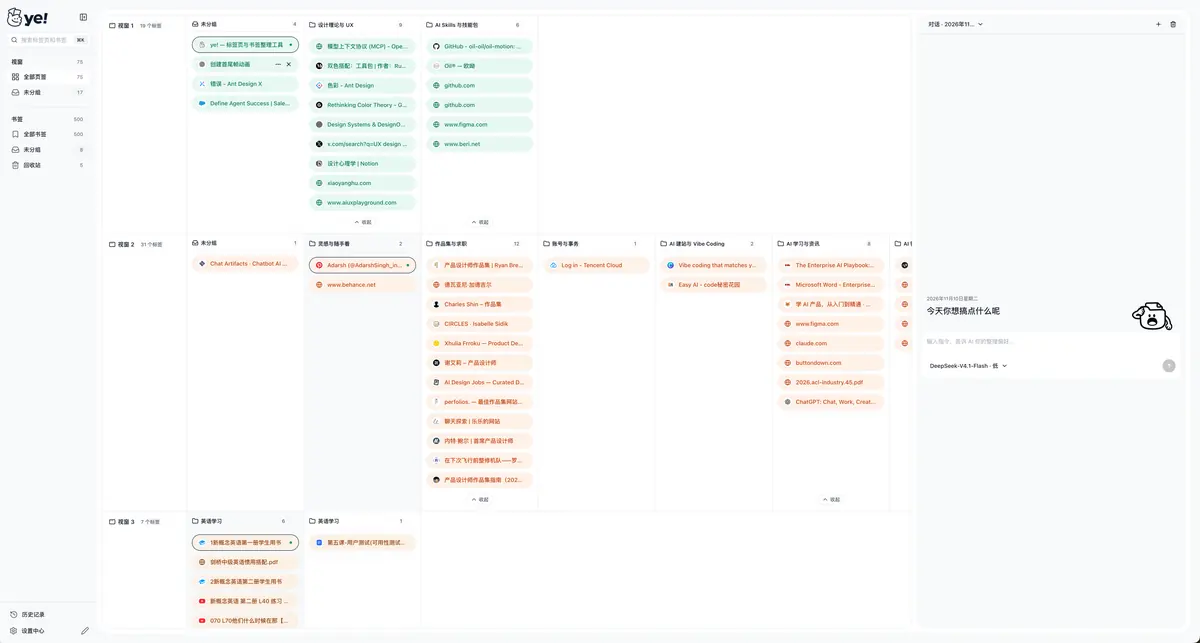
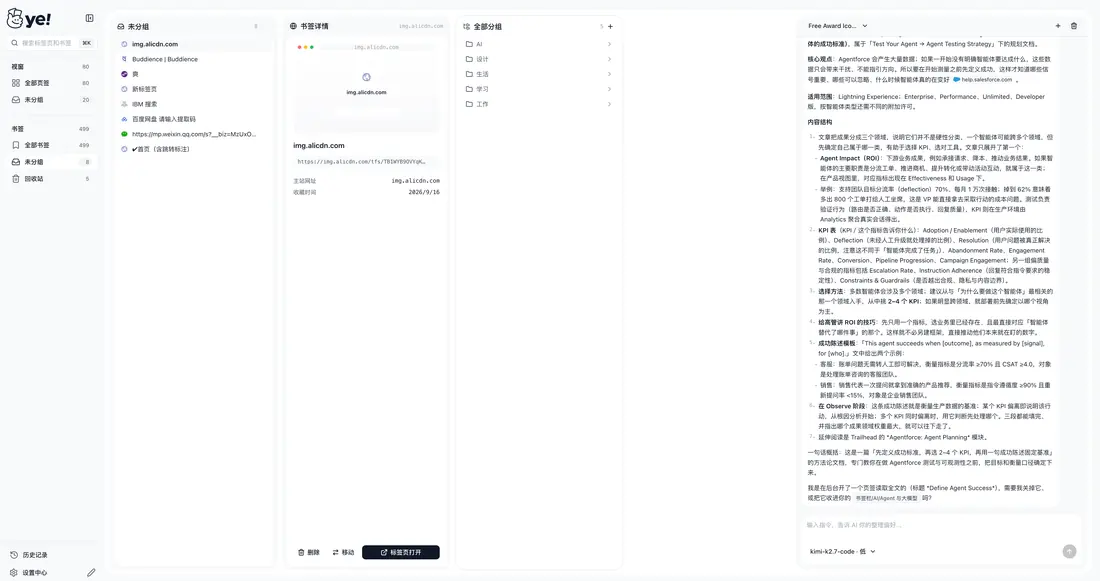
首页：恢复 ye 原预览并将新截图并排加入

diff --git a/src/app/home/CaseCard.tsx b/src/app/home/CaseCard.tsx
@@ -51,7 +51,7 @@ export function CaseCard({ item, active, muted, onHover, onFocus }: {
       onPointerEnter={event => { if (event.pointerType === 'mouse') onHover(true); }} onPointerLeave={() => onHover(false)}
       onFocus={() => onFocus(true)} onBlur={() => onFocus(false)}>
       <CaseCopy item={item} />
-      <div className="case-previews" aria-hidden="true">{item.id === 'ai-report' ? <div ref={preview} className="qixin-preview-group">{['hover-539-5069.webp', 'hover-1363-50416.webp'].map((file, index) => <div key={file} className={`case-preview case-preview-qixin qsight-preview qsight-preview-${index}`}><img src={`${import.meta.env.BASE_URL}images/qsight/${file}`} alt="" /></div>)}</div> : item.id === 'qixin-brain' ? <div ref={preview} className="qixin-preview-group">{['home-cover.webp', 'hover-620-19593.webp', 'hover-2447-7289.webp'].map((file, index) => <div key={file} className={`case-preview case-preview-qixin qixin-preview-${index}`}><img src={`${import.meta.env.BASE_URL}images/qixin/${file}`} alt="" /></div>)}</div>  : item.id === 'ye-browser' ? <div ref={preview} className="qixin-preview-group"><div className="case-preview case-preview-qixin ye-screen-preview"><img src={`${import.meta.env.BASE_URL}images/ye/home-hover.webp`} alt="" /></div></div> : [0, 1, 2].map(index => <div key={index} className={`case-preview case-preview-${index}`}><Placeholder index={index} /></div>)}</div>
+      <div className="case-previews" aria-hidden="true">{item.id === 'ai-report' ? <div ref={preview} className="qixin-preview-group">{['hover-539-5069.webp', 'hover-1363-50416.webp'].map((file, index) => <div key={file} className={`case-preview case-preview-qixin qsight-preview qsight-preview-${index}`}><img src={`${import.meta.env.BASE_URL}images/qsight/${file}`} alt="" /></div>)}</div> : item.id === 'qixin-brain' ? <div ref={preview} className="qixin-preview-group">{['home-cover.webp', 'hover-620-19593.webp', 'hover-2447-7289.webp'].map((file, index) => <div key={file} className={`case-preview case-preview-qixin qixin-preview-${index}`}><img src={`${import.meta.env.BASE_URL}images/qixin/${file}`} alt="" /></div>)}</div>  : item.id === 'ye-browser' ? <div ref={preview} className="qixin-preview-group">{['home-hover.webp', 'home-hover-tabs.webp'].map((file, index) => <div key={file} className={`case-preview case-preview-qixin ye-screen-preview ye-screen-preview-${index}`}><img src={`${import.meta.env.BASE_URL}images/ye/${file}`} alt="" /></div>)}</div> : [0, 1, 2].map(index => <div key={index} className={`case-preview case-preview-${index}`}><Placeholder index={index} /></div>)}</div>
     </a>
     <div className="case-mobile">
       <CaseCopy item={item} />

diff --git a/src/app/home/home.css b/src/app/home/home.css
@@ -213,3 +213,6 @@ body:has(.homepage) { background: var(--color-home-bg); }
 .home-case-qixin .qsight-preview-1 { right: var(--space-8); top: var(--space-24); }
 
 .home-case-qixin .ye-screen-preview { width: 400px; top: var(--space-16); right: calc(var(--space-24) + var(--space-12)); z-index: 1; }
+
+.home-case-qixin .ye-screen-preview-0 { right: 32%; }
+.home-case-qixin .ye-screen-preview-1 { right: var(--space-6); top: var(--space-24); }
